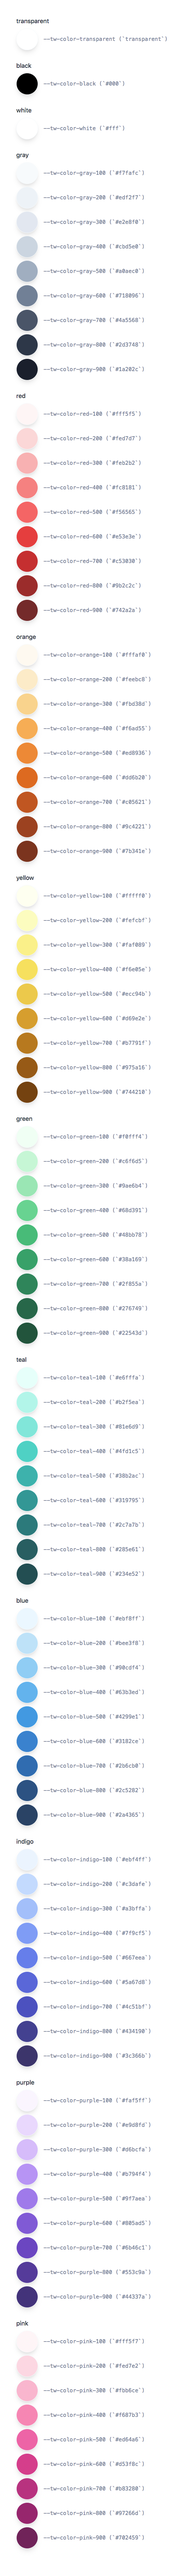
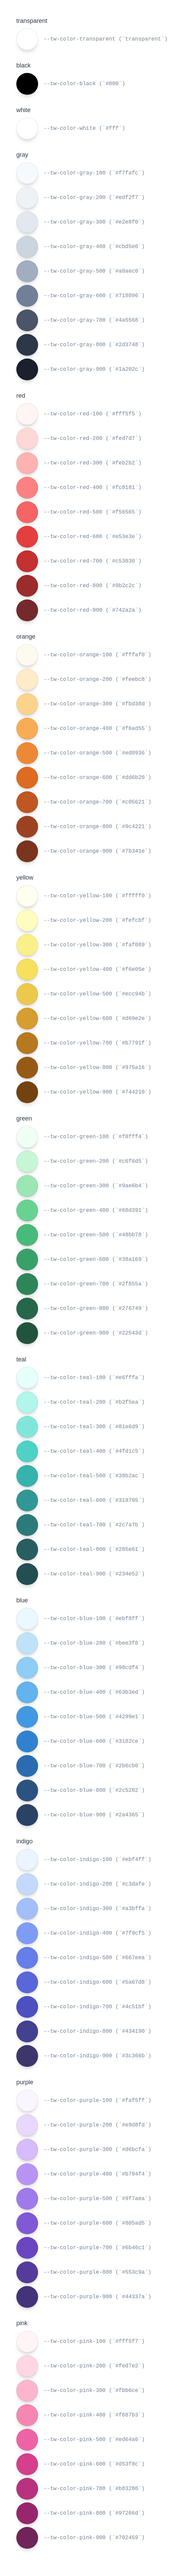
docs: tweak border

diff --git a/docs/index.html b/docs/index.html
@@ -11,15 +11,22 @@
     />
     <script src="https://cdn.jsdelivr.net/npm/lodash@4.17.15/lodash.min.js"></script>
     <script src="https://cdn.jsdelivr.net/npm/vue/dist/vue.js"></script>
+    <style>
+      .color {
+        box-shadow: 0 10px 15px -3px rgba(0, 0, 0, 0.1),
+          0 4px 6px -2px rgba(0, 0, 0, 0.05),
+          0px 0px 0px 1px inset rgba(0, 0, 0, 0.1);
+      }
+    </style>
   </head>
   <body class="p-12">
     <div id="app">
       <link ref="style" rel="stylesheet" href="tailwindcss-colors.css" />
-      <div v-for="(vars, g) in varsGrouped" :key="g" class="mb-8">
-        <h2 class="text-lg font-medium text-gray-800 mb-2">{{ g }}</h2>
+      <div v-for="(vars, color) in varsGrouped" :key="g" class="mb-8">
+        <h2 class="text-lg font-medium text-gray-800 mb-2">{{ color }}</h2>
         <div v-for="v in vars" :key="v.property" class="flex items-center mb-2">
           <span
-            class="inline-block w-16 h-16 rounded-full shadow-lg mr-4 border border-solid border-gray-100"
+            class="color inline-block w-16 h-16 rounded-full mr-4"
             :style="`background-color: var(${v.property});`"
           ></span>
           <span class="font-mono text-gray-600"
